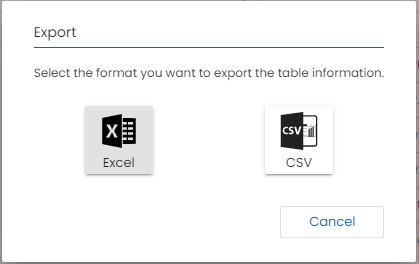
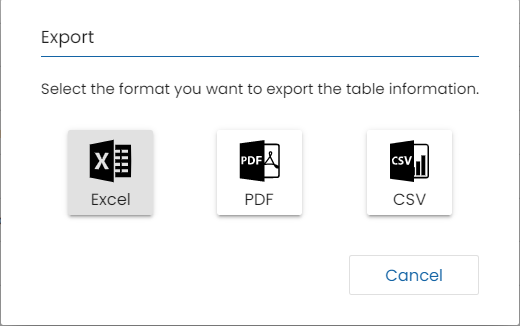
Updated table export documentation

diff --git a/_o_components/35-o-table-export.component.md b/_o_components/35-o-table-export.component.md
@@ -43,7 +43,7 @@ export type OTableExportData = {
 
 | Attribute | Meaning |
 |-----------|---------|
-| data      | Custom export data |
+| data      | Export data |
 | columns      | An array that indicates which columns to query in the database |
 | columnNames | Translates the name of the column to be exported, replacing it with the value of the key|
 | sqlTypes | An object containing the key-value pairs for the data type contained in the database. As a key, the column name and as a value, the integer corresponding to the database data type, which can be found at this link.|
@@ -244,20 +244,25 @@ export const customProviders: any = [
 
 ## Ontimize Boot 3.9.0 or higher
 
-The `o-table` component is able to export its data in *Excel* and *CSV* format by default.
+The `o-table` component is able to export its data in *Excel*, *PDF* and *CSV* format by default.
 
 ![Export table data]({{ "/images/components/tabla/export-data-table-3x.png" | absolute_url }}){: .comp-example-img}
 
-By default, the `o-table` component export **all data** with **the columns names defined in the table, the sqltypes** and **the filter** if used, the component execute the REST(POST) export request in which an object of type `OTableExportData3X` is sent in the body.
+The `o-table` component exports *all the data* if the table has `pageable=no` configured or the page data otherwise
+with **the columns names defined in the table, the sqltypes** and **the filter** if used, the component execute the REST(POST) export request in which an object of type `OTableExportData3X` is sent in the body in case export CSV or `OTableFormattedExportData3X` in case export PDF or EXCEL.
 
 ```ts
-export type OTableExportData3X = {
-  queryParam: OTableExportQueryParam;
+export interface OTableExportData3X {
+  type: string;
+  queryParam: QueryParameter | AdvancedQueryParameter;
   service?: string;
   path: string;
   dao: string;
-  advQuery: boolean;
-  excelColumns: { [columnId: string]: string; };
+  advQuery: boolean
+}
+
+export interface OTableFormattedExportData3X extends OTableExportData3X {
+  columns: { [columnId: string]: string; };
   columnTitles: { [columnId: string]: string; };
   columnTypes: { cellNumber?: string, styleId?: string };
   styles: { styleId?: string, style?: OTableExportColumnStyle };
@@ -267,7 +272,7 @@ export type OTableExportData3X = {
 }
 ```
 
-Next a POST request will be made to the previously configured url and the body of the request containing all the necessary information for the export.
+Next a POST request will be made to the previously configured url and the body of the request containing all the necessary information for the EXCEL export.
 
 - **URL:** http://localhost:8080/qsallcomponents-jee/services/rest/export/xlsx
 - **HTTP Method:** POST
@@ -328,7 +333,7 @@ The rest interface used for this must be like the following by default:
  https://{ your-api-endpoint }/{ export-path }/{ format-selected }
 ```
 
-Where <b>format-selected</b> can be: <b>'xlsx'</b> or <b>'csv'</b> depending on the format selected. You can also export the table data in other format using a [table-export-button]({{base}}), in this case, the <b>format-selected</b> will be the value configured in the attribute `export-type` of the `o-table-export-button` component.
+Where <b>format-selected</b> can be: <b>'xlsx'</b>, <b>'pdf'</b> or <b>'csv'</b> depending on the format selected. You can also export the table data in other format using a [table-export-button]({{base}}), in this case, the <b>format-selected</b> will be the value configured in the attribute `export-type` of the `o-table-export-button` component.
 
 
 And <b> export-path</b> is <b>export</b> by default, if you want to customize this end point, please check the <a href="#custom-exportation-end-point-1">Custom exportation end point</a> section.
@@ -420,7 +425,7 @@ export const customProviders: any = [
 })
 ```
 
-The following example extends the provider by taking into account the marked rows in a table and nd sets the background to green in the first column.
+The following example extends the provider by taking into account the marked rows in a table and nd sets the background to green in the first row.
 
 app.module.ts
 
@@ -487,9 +492,9 @@ export const CONFIG: Config = {
   apiEndpoint:environment.apiEndpoint,
 
   ...
-  exportServiceType: ExportServiceExtService3X
+  exportServiceType: ExportServiceExtService //Ontimize EE, Ontimize Boot 2.X.X or lower version
   or
-  exportServiceType: ExportServiceExtService
+  exportServiceType: ExportServiceExtService3X //Ontimize Boot 3.9.0 or higher
   ...
 ```
 
@@ -499,9 +504,9 @@ export const CONFIG: Config = {
 // Defining custom providers (if needed)...
 export const customProviders: any = [
   ...
-  { provide: O_EXPORT_SERVICE, useValue: ExportServiceExtService }
+  { provide: O_EXPORT_SERVICE, useValue: ExportServiceExtService } //Ontimize EE, Ontimize Boot 2.X.X or lower version
   or
-  { provide: O_EXPORT_SERVICE, useValue: ExportServiceExtService3X }
+  { provide: O_EXPORT_SERVICE, useValue: ExportServiceExtService3X } //Ontimize Boot 3.9.0 or higher
   ...
 ];
 
@@ -527,47 +532,100 @@ export class AppModule { }
 
 ```
 
+<h4>Export service example for Ontimize EE, Ontimize Boot 2.X.X or lower version</h4>
 
-<h4>Ontimize Boot 3.9.0 or higher</h4>
-
-```
+```ts
 import { Injectable, Injector } from '@angular/core';
-import { HttpRequestOptions, Observable, OntimizeExportService3X, ServiceResponse } from 'ontimize-web-ngx';
+import { HttpRequestOptions, Observable, OntimizeExportService, ServiceResponse } from 'ontimize-web-ngx';
 import { Subscriber } from 'rxjs';
 import { map, share } from 'rxjs/operators';
 
 @Injectable()
-export class ExportServiceExtService extends OntimizeExportService3X {
+export class ExportServiceExtService extends OntimizeExportService {
 
-  constructor(injector: Injector) {
-    super(injector)
-  }
-  public exportData(format: string): Observable<any> {
-    const entity = this.exportDataProvider.entity;
-    const url = `${this.urlBase}${this.exportPath ? this.exportPath : ''}${this.servicePath}/${entity}/${format}`;
+   constructor(injector: Injector) {
+     super(injector)
+   }
+   public exportData(format: string): Observable<any> {
+     const entity = this.exportDataProvider.entity;
+     const url = `${this.urlBase}${this.exportPath ? this.exportPath : ''}${this.servicePath}/${entity}/${format}`;
 
-    const options: HttpRequestOptions = {
-      headers: this.buildHeaders().append('Content-Type', 'application/json;charset=UTF-8'),
-      observe: 'response'
-    };
+     const options: HttpRequestOptions = {
+       headers: this.buildHeaders().append('Content-Type', 'application/json;charset=UTF-8'),
+       observe: 'response'
+     };
 
-    const exportData: any = this.exportDataProvider.getExportConfiguration();
-    exportData.data = this.exportDataProvider.table.getSelectedItems();
-    const body = JSON.stringify(exportData);
-    // TODO: try multipart
-    const dataObservable: Observable<ServiceResponse> = new Observable((observer: Subscriber<ServiceResponse>) => {
-      this.httpClient.post<ServiceResponse>(url, body, options).pipe(
-        map((resData: any) => this.adapter.adapt(resData))
-      ).subscribe(resp => {
-        this.parseSuccessfulExportDataResponse(format, resp, observer);
-      }, error => {
-        this.parseUnsuccessfulResponse(error, observer);
-      });
-    });
-    return dataObservable.pipe(share());
-  }
-}
 
+     const exportData: any = this.exportDataProvider.getExportConfiguration();
+     exportData.data = this.exportDataProvider.table.getSelectedItems();
+     const body = JSON.stringify(exportData);
+     const dataObservable: Observable<ServiceResponse> = new Observable((observer: Subscriber<ServiceResponse>) => {
+       this.httpClient.post<ServiceResponse>(url, body, options).pipe(
+         map((resData: any) => this.adapter.adapt(resData))
+       ).subscribe(resp => {
+         this.parseSuccessfulExportDataResponse(format, resp, observer);
+       }, error => {
+         this.parseUnsuccessfulResponse(error, observer);
+       });
+     });
+     return dataObservable.pipe(share());
+   }
+ }
+ ```
+
+<h4>Export service example for Ontimize Boot 3.9.0 or higher</h4>
+
+```
+import { Injectable, Injector } from '@angular/core';
+import { HttpRequestOptions, Observable, OntimizeExportService3X } from 'ontimize-web-ngx';
+import { share } from 'rxjs/operators';
+
+@Injectable()
+export class ExportServiceExtService3X extends OntimizeExportService3X {
+
+   constructor(injector: Injector) {
+     super(injector)
+   }
+   public exportData(format: string): Observable<any> {
+     const url = `${this.urlBase}${this.exportPath}/${format}`;
+
+     const options: HttpRequestOptions = {
+       headers: this.buildHeaders().append('Content-Type', 'application/json;charset=UTF-8'),
+       observe: 'response',
+       responseType: 'blob'
+     };
+
+
+     let exportData: any = this.exportDataProvider.getExportConfiguration();
+     exportData.path = this.servicePath;
+
+     const body = JSON.stringify(exportData);
+     const dataObservable = new Observable(observer => {
+       this.httpClient.post(url, body, options).subscribe(
+         (resp: any) => {
+           const fileData = resp.body;
+           const contentDisposition = resp.headers.get('content-disposition');
+           let fileName = 'file.' + format;
+           const fileNameRegex = /filename[^;=\n]*=((['"]).*?\2|[^;\n]*)/;
+           const matches = fileNameRegex.exec(contentDisposition);
+           if (matches != null && matches[1]) {
+             fileName = matches[1].replace(/['"]/g, '');
+           }
+           const fileURL = URL.createObjectURL(fileData);
+           const a = document.createElement('a');
+           document.body.appendChild(a);
+           a.href = fileURL;
+           a.download = fileName;
+           a.click();
+           document.body.removeChild(a);
+           observer.next(fileData);
+           URL.revokeObjectURL(fileURL);
+         }, error => observer.error(error),
+         () => observer.complete()
+       );
+     });
+     return dataObservable.pipe(share());
+   }
 ```
 ### Customizing export service for a specific table
 In addition, it is possible to configure the use of an export service for a specific table with the `export-service-type` input in `o-table` component with service defining in the `app.module.ts` file.

diff --git a/_docs/11-app-config.md b/_docs/11-app-config.md
@@ -49,7 +49,7 @@ export const CONFIG: Config = {
   permissionsConfiguration: { /* Optional */
     service: 'permissions'
   },
-  exportConfiguration: { /* Required only for Ontimize Boot version 3.7.0 or above */
+  exportConfiguration: { /* Required only for Ontimize Boot version 3.9.0 or above */
     path:'/export'
   }
 };
@@ -86,7 +86,7 @@ The noteworthy parameters here are:
   - **'OntimizeEEPermissions':** string that configures Ontimize REST JEE services.
   - **Custom class:** a service class reference that extends `OntimizePermissions` or `OntimizeEEPermissions` or implements the `IPermissionsService` interface.
 - **permissionsConfiguration:** permissions service configuration object.
-- **exportConfiguration**: export configuration object required only with `Ontimize Boot version 3.7.0 or above`
+- **exportConfiguration**: export configuration object required only with `Ontimize Boot version 3.9.0 or above`
   -  **path**: the export path used in the remote package query compatible.
 
 # Package.json configuration

diff --git a/_o_components/35-o-table.component.md b/_o_components/35-o-table.component.md
@@ -1090,7 +1090,7 @@ The table data can be exported to *EXCEL*, *CSV*,.. using the option Export in t
 
 ![Export table data]({{ "/images/components/tabla/export-data-table.png" | absolute_url }}){: .comp-example-img}
 
-The same data that is in the table gets exported but none the values processed in GUI, ie:
+The same data that is in the table gets exported but `none` the values processed in GUI, ie:
 - the values obtained by the formatters of the cell renderers
 - header, cell and row styles
 - calculated columns
